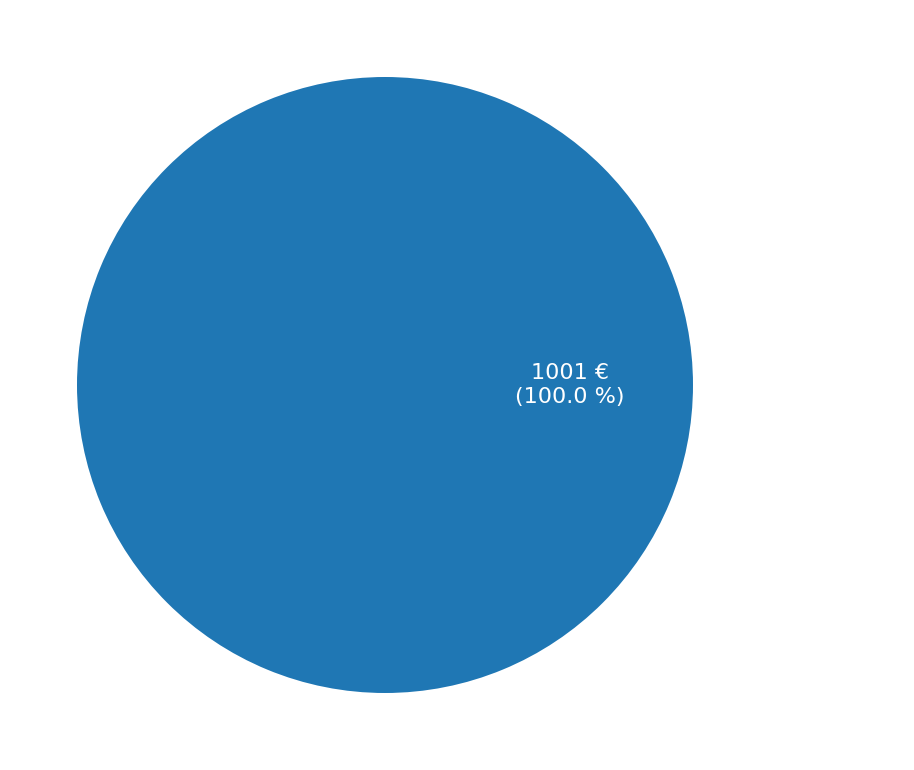
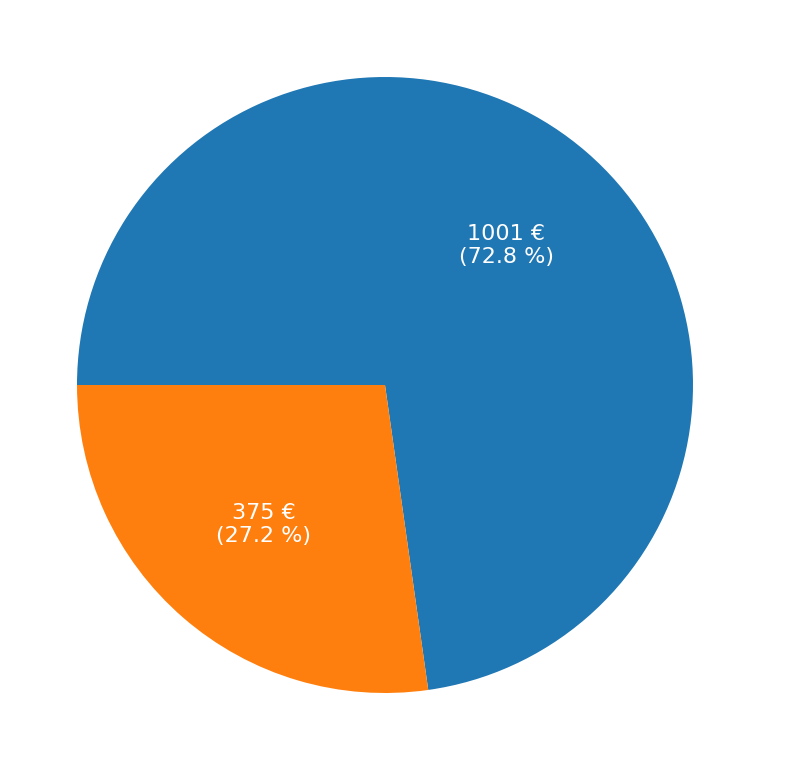
Update 19/09

Changed region(s): [[0.0602, 0.0935, 0.8733, 0.9039], [0.542, 0.4675, 0.6926, 0.5299]]

diff --git a/page_total.html b/page_total.html
@@ -25,26 +25,74 @@
     <tr>
       <td>01/09/2022</td>
       <td>Reste Cash 2021-2022</td>
-      <td><a href="subpage_0.html">Reste 2021-2022</a></td>
+      <td><a href="subpage_1.html">Reste 2021-2022</a></td>
       <td style="color:#34FF27"">11.21 €</td>
     </tr>
     <tr>
       <td>01/09/2022</td>
       <td>Reste Compte 2021-2022</td>
-      <td><a href="subpage_0.html">Reste 2021-2022</a></td>
+      <td><a href="subpage_1.html">Reste 2021-2022</a></td>
       <td style="color:#34FF27"">972.04 €</td>
     </tr>
     <tr>
       <td>01/09/2022</td>
       <td>Reste Vidanges 2021-2022</td>
-      <td><a href="subpage_0.html">Reste 2021-2022</a></td>
+      <td><a href="subpage_1.html">Reste 2021-2022</a></td>
       <td style="color:#34FF27"">18.00 €</td>
+    </tr>
+    <tr>
+      <td>01/09/2022</td>
+      <td>Vidanges</td>
+      <td><a href="subpage_0.html">Bar Pi 17/09</a></td>
+      <td style="color:#34FF27"">117.00 €</td>
+    </tr>
+    <tr>
+      <td>17/09/2022</td>
+      <td>Vente Cartes</td>
+      <td><a href="subpage_0.html">Bar Pi 17/09</a></td>
+      <td style="color:#34FF27"">454.07 €</td>
+    </tr>
+    <tr>
+      <td>17/09/2022</td>
+      <td>Courses Boissons</td>
+      <td><a href="subpage_0.html">Bar Pi 17/09</a></td>
+      <td style="color:#FA413B"">-321.36 €</td>
+    </tr>
+    <tr>
+      <td>17/09/2022</td>
+      <td>Courses Nourritures</td>
+      <td><a href="subpage_0.html">Bar Pi 17/09</a></td>
+      <td style="color:#FA413B"">-101.82 €</td>
+    </tr>
+    <tr>
+      <td>17/09/2022</td>
+      <td>Courses Grenadine</td>
+      <td><a href="subpage_0.html">Bar Pi 17/09</a></td>
+      <td style="color:#FA413B"">-11.00 €</td>
+    </tr>
+    <tr>
+      <td>17/09/2022</td>
+      <td>Vente Cartes</td>
+      <td><a href="subpage_0.html">Bar Pi 17/09</a></td>
+      <td style="color:#34FF27"">11.00 €</td>
+    </tr>
+    <tr>
+      <td>17/09/2022</td>
+      <td>Vente Cartes</td>
+      <td><a href="subpage_0.html">Bar Pi 17/09</a></td>
+      <td style="color:#34FF27"">20.00 €</td>
+    </tr>
+    <tr>
+      <td>19/09/2022</td>
+      <td>Vente Cartes</td>
+      <td><a href="subpage_0.html">Bar Pi 17/09</a></td>
+      <td style="color:#34FF27"">207.02 €</td>
     </tr>
     <tr>
       <td></td>
       <td>Total</td>
       <td></td>
-      <td style="color:#34FF27"">1001.25 €</td>
+      <td style="color:#34FF27"">1376.16 €</td>
     </tr>
   </tbody>
 </table>

diff --git a/subpage_0.html b/subpage_0.html
@@ -7,7 +7,7 @@
     <link rel="stylesheet" href="style.css" />
 </head>
 <body>  
-    <h1>Reste 2021-2022</h1>
+    <h1>Bar Pi 17/09</h1>
     <p align="right">
         <button onclick="location.href='index.html'" type="button" class="CategoryButton">Menu</button>
     </p>
@@ -23,33 +23,58 @@
   <tbody>
     <tr>
       <td>01/09/2022</td>
-      <td>Reste Cash 2021-2022</td>
-      <td style="color:#34FF27"">11.21 €</td>
+      <td>Vidanges</td>
+      <td style="color:#34FF27"">117.00 €</td>
     </tr>
     <tr>
-      <td>01/09/2022</td>
-      <td>Reste Compte 2021-2022</td>
-      <td style="color:#34FF27"">972.04 €</td>
+      <td>17/09/2022</td>
+      <td>Vente Cartes</td>
+      <td style="color:#34FF27"">454.07 €</td>
     </tr>
     <tr>
-      <td>01/09/2022</td>
-      <td>Reste Vidanges 2021-2022</td>
-      <td style="color:#34FF27"">18.00 €</td>
+      <td>17/09/2022</td>
+      <td>Vente Cartes</td>
+      <td style="color:#34FF27"">11.00 €</td>
+    </tr>
+    <tr>
+      <td>17/09/2022</td>
+      <td>Vente Cartes</td>
+      <td style="color:#34FF27"">20.00 €</td>
+    </tr>
+    <tr>
+      <td>19/09/2022</td>
+      <td>Vente Cartes</td>
+      <td style="color:#34FF27"">207.02 €</td>
     </tr>
     <tr>
       <td></td>
       <td>Recettes Totales</td>
-      <td style="color:#34FF27"">1001.25 €</td>
+      <td style="color:#34FF27"">809.09 €</td>
+    </tr>
+    <tr>
+      <td>17/09/2022</td>
+      <td>Courses Boissons</td>
+      <td style="color:#FA413B"">-321.36 €</td>
+    </tr>
+    <tr>
+      <td>17/09/2022</td>
+      <td>Courses Nourritures</td>
+      <td style="color:#FA413B"">-101.82 €</td>
+    </tr>
+    <tr>
+      <td>17/09/2022</td>
+      <td>Courses Grenadine</td>
+      <td style="color:#FA413B"">-11.00 €</td>
     </tr>
     <tr>
       <td></td>
       <td>Dépenses Totales</td>
-      <td style="color:#34FF27"">0.00 €</td>
+      <td style="color:#FA413B"">-434.18 €</td>
     </tr>
     <tr>
       <td></td>
       <td>Total</td>
-      <td style="color:#34FF27"">1001.25 €</td>
+      <td style="color:#34FF27"">374.91 €</td>
     </tr>
   </tbody>
 </table>

diff --git a/page_compte.html b/page_compte.html
@@ -25,7 +25,7 @@
     <tr>
       <td>01/09/2022</td>
       <td>Reste Compte 2021-2022</td>
-      <td><a href="subpage_0.html">Reste 2021-2022</a></td>
+      <td><a href="subpage_1.html">Reste 2021-2022</a></td>
       <td style="color:#34FF27"">972.04 €</td>
     </tr>
     <tr>
@@ -41,10 +41,46 @@
       <td style="color:#34FF27"">0.00 €</td>
     </tr>
     <tr>
+      <td>17/09/2022</td>
+      <td>Courses Boissons</td>
+      <td><a href="subpage_0.html">Bar Pi 17/09</a></td>
+      <td style="color:#FA413B"">-321.36 €</td>
+    </tr>
+    <tr>
+      <td>17/09/2022</td>
+      <td>Courses Nourritures</td>
+      <td><a href="subpage_0.html">Bar Pi 17/09</a></td>
+      <td style="color:#FA413B"">-101.82 €</td>
+    </tr>
+    <tr>
+      <td>17/09/2022</td>
+      <td>Courses Grenadine</td>
+      <td><a href="subpage_0.html">Bar Pi 17/09</a></td>
+      <td style="color:#FA413B"">-11.00 €</td>
+    </tr>
+    <tr>
+      <td>17/09/2022</td>
+      <td>Vente Cartes</td>
+      <td><a href="subpage_0.html">Bar Pi 17/09</a></td>
+      <td style="color:#34FF27"">11.00 €</td>
+    </tr>
+    <tr>
+      <td>17/09/2022</td>
+      <td>Vente Cartes</td>
+      <td><a href="subpage_0.html">Bar Pi 17/09</a></td>
+      <td style="color:#34FF27"">20.00 €</td>
+    </tr>
+    <tr>
+      <td>19/09/2022</td>
+      <td>Vente Cartes</td>
+      <td><a href="subpage_0.html">Bar Pi 17/09</a></td>
+      <td style="color:#34FF27"">207.02 €</td>
+    </tr>
+    <tr>
       <td></td>
       <td>Total</td>
       <td></td>
-      <td style="color:#34FF27"">972.04 €</td>
+      <td style="color:#34FF27"">775.88 €</td>
     </tr>
   </tbody>
 </table>

diff --git a/subpage_1.html b/subpage_1.html
@@ -7,7 +7,7 @@
     <link rel="stylesheet" href="style.css" />
 </head>
 <body>  
-    <h1>Tri par Activité</h1>
+    <h1>Reste 2021-2022</h1>
     <p align="right">
         <button onclick="location.href='index.html'" type="button" class="CategoryButton">Menu</button>
     </p>
@@ -16,25 +16,40 @@
   <thead>
     <tr style="text-align: right;">
       <th>Date</th>
-      <th>Activité</th>
+      <th>Libellé</th>
       <th>Montant</th>
     </tr>
   </thead>
   <tbody>
     <tr>
       <td>01/09/2022</td>
-      <td><a href="subpage_0.html">Bar Pi 17/09</a></td>
-      <td style="color:#34FF27"">374.91 €</td>
+      <td>Reste Cash 2021-2022</td>
+      <td style="color:#34FF27"">11.21 €</td>
     </tr>
     <tr>
       <td>01/09/2022</td>
-      <td><a href="subpage_1.html">Reste 2021-2022</a></td>
+      <td>Reste Compte 2021-2022</td>
+      <td style="color:#34FF27"">972.04 €</td>
+    </tr>
+    <tr>
+      <td>01/09/2022</td>
+      <td>Reste Vidanges 2021-2022</td>
+      <td style="color:#34FF27"">18.00 €</td>
+    </tr>
+    <tr>
+      <td></td>
+      <td>Recettes Totales</td>
       <td style="color:#34FF27"">1001.25 €</td>
     </tr>
     <tr>
       <td></td>
+      <td>Dépenses Totales</td>
+      <td style="color:#34FF27"">0.00 €</td>
+    </tr>
+    <tr>
+      <td></td>
       <td>Total</td>
-      <td style="color:#34FF27"">1376.16 €</td>
+      <td style="color:#34FF27"">1001.25 €</td>
     </tr>
   </tbody>
 </table>

diff --git a/index.html b/index.html
@@ -9,16 +9,16 @@
 <body>
     <h1>Comptes Pis</h1>
 
-    <button onclick="location.href='page_compte.html'" type="button" class="BasicButton">Compte<br>972.04 €</button>
-    <button onclick="location.href='page_cash.html'" type="button" class="BasicButton">Cash<br>11.21 €</button>
-    <button onclick="location.href='page_materiel.html'" type="button" class="BasicButton">Matériel<br>18.00 €</button>
+    <button onclick="location.href='page_compte.html'" type="button" class="BasicButton">Compte<br>775.88 €</button>
+    <button onclick="location.href='page_cash.html'" type="button" class="BasicButton">Cash<br>465.28 €</button>
+    <button onclick="location.href='page_materiel.html'" type="button" class="BasicButton">Matériel<br>135.00 €</button>
     <br><br><br><br><br>
     <p align="right">
         <button onclick="location.href='page_by_activity.html'" type="button" class="CategoryButton">Tri par activités</button>
         <button onclick="location.href='page_graphs.html'" type="button" class="CategoryButton">Graphes</button>
     </p>
     <br><br><br>
-    <button onclick="location.href='page_total.html'" type="button" class="TotalButton">Total 1001.25 €</button>
+    <button onclick="location.href='page_total.html'" type="button" class="TotalButton">Total 1376.16 €</button>
     
     
 </body>

diff --git a/page_cash.html b/page_cash.html
@@ -25,7 +25,7 @@
     <tr>
       <td>01/09/2022</td>
       <td>Reste Cash 2021-2022</td>
-      <td><a href="subpage_0.html">Reste 2021-2022</a></td>
+      <td><a href="subpage_1.html">Reste 2021-2022</a></td>
       <td style="color:#34FF27"">11.21 €</td>
     </tr>
     <tr>
@@ -35,10 +35,16 @@
       <td style="color:#34FF27"">0.00 €</td>
     </tr>
     <tr>
+      <td>17/09/2022</td>
+      <td>Vente Cartes</td>
+      <td><a href="subpage_0.html">Bar Pi 17/09</a></td>
+      <td style="color:#34FF27"">454.07 €</td>
+    </tr>
+    <tr>
       <td></td>
       <td>Total</td>
       <td></td>
-      <td style="color:#34FF27"">11.21 €</td>
+      <td style="color:#34FF27"">465.28 €</td>
     </tr>
   </tbody>
 </table>

diff --git a/page_materiel.html b/page_materiel.html
@@ -25,8 +25,14 @@
     <tr>
       <td>01/09/2022</td>
       <td>Reste Vidanges 2021-2022</td>
-      <td><a href="subpage_0.html">Reste 2021-2022</a></td>
+      <td><a href="subpage_1.html">Reste 2021-2022</a></td>
       <td style="color:#34FF27"">18.00 €</td>
+    </tr>
+    <tr>
+      <td>01/09/2022</td>
+      <td>Vidanges</td>
+      <td><a href="subpage_0.html">Bar Pi 17/09</a></td>
+      <td style="color:#34FF27"">117.00 €</td>
     </tr>
     <tr>
       <td>01/09/2022</td>
@@ -38,7 +44,7 @@
       <td></td>
       <td>Total</td>
       <td></td>
-      <td style="color:#34FF27"">18.00 €</td>
+      <td style="color:#34FF27"">135.00 €</td>
     </tr>
   </tbody>
 </table>
